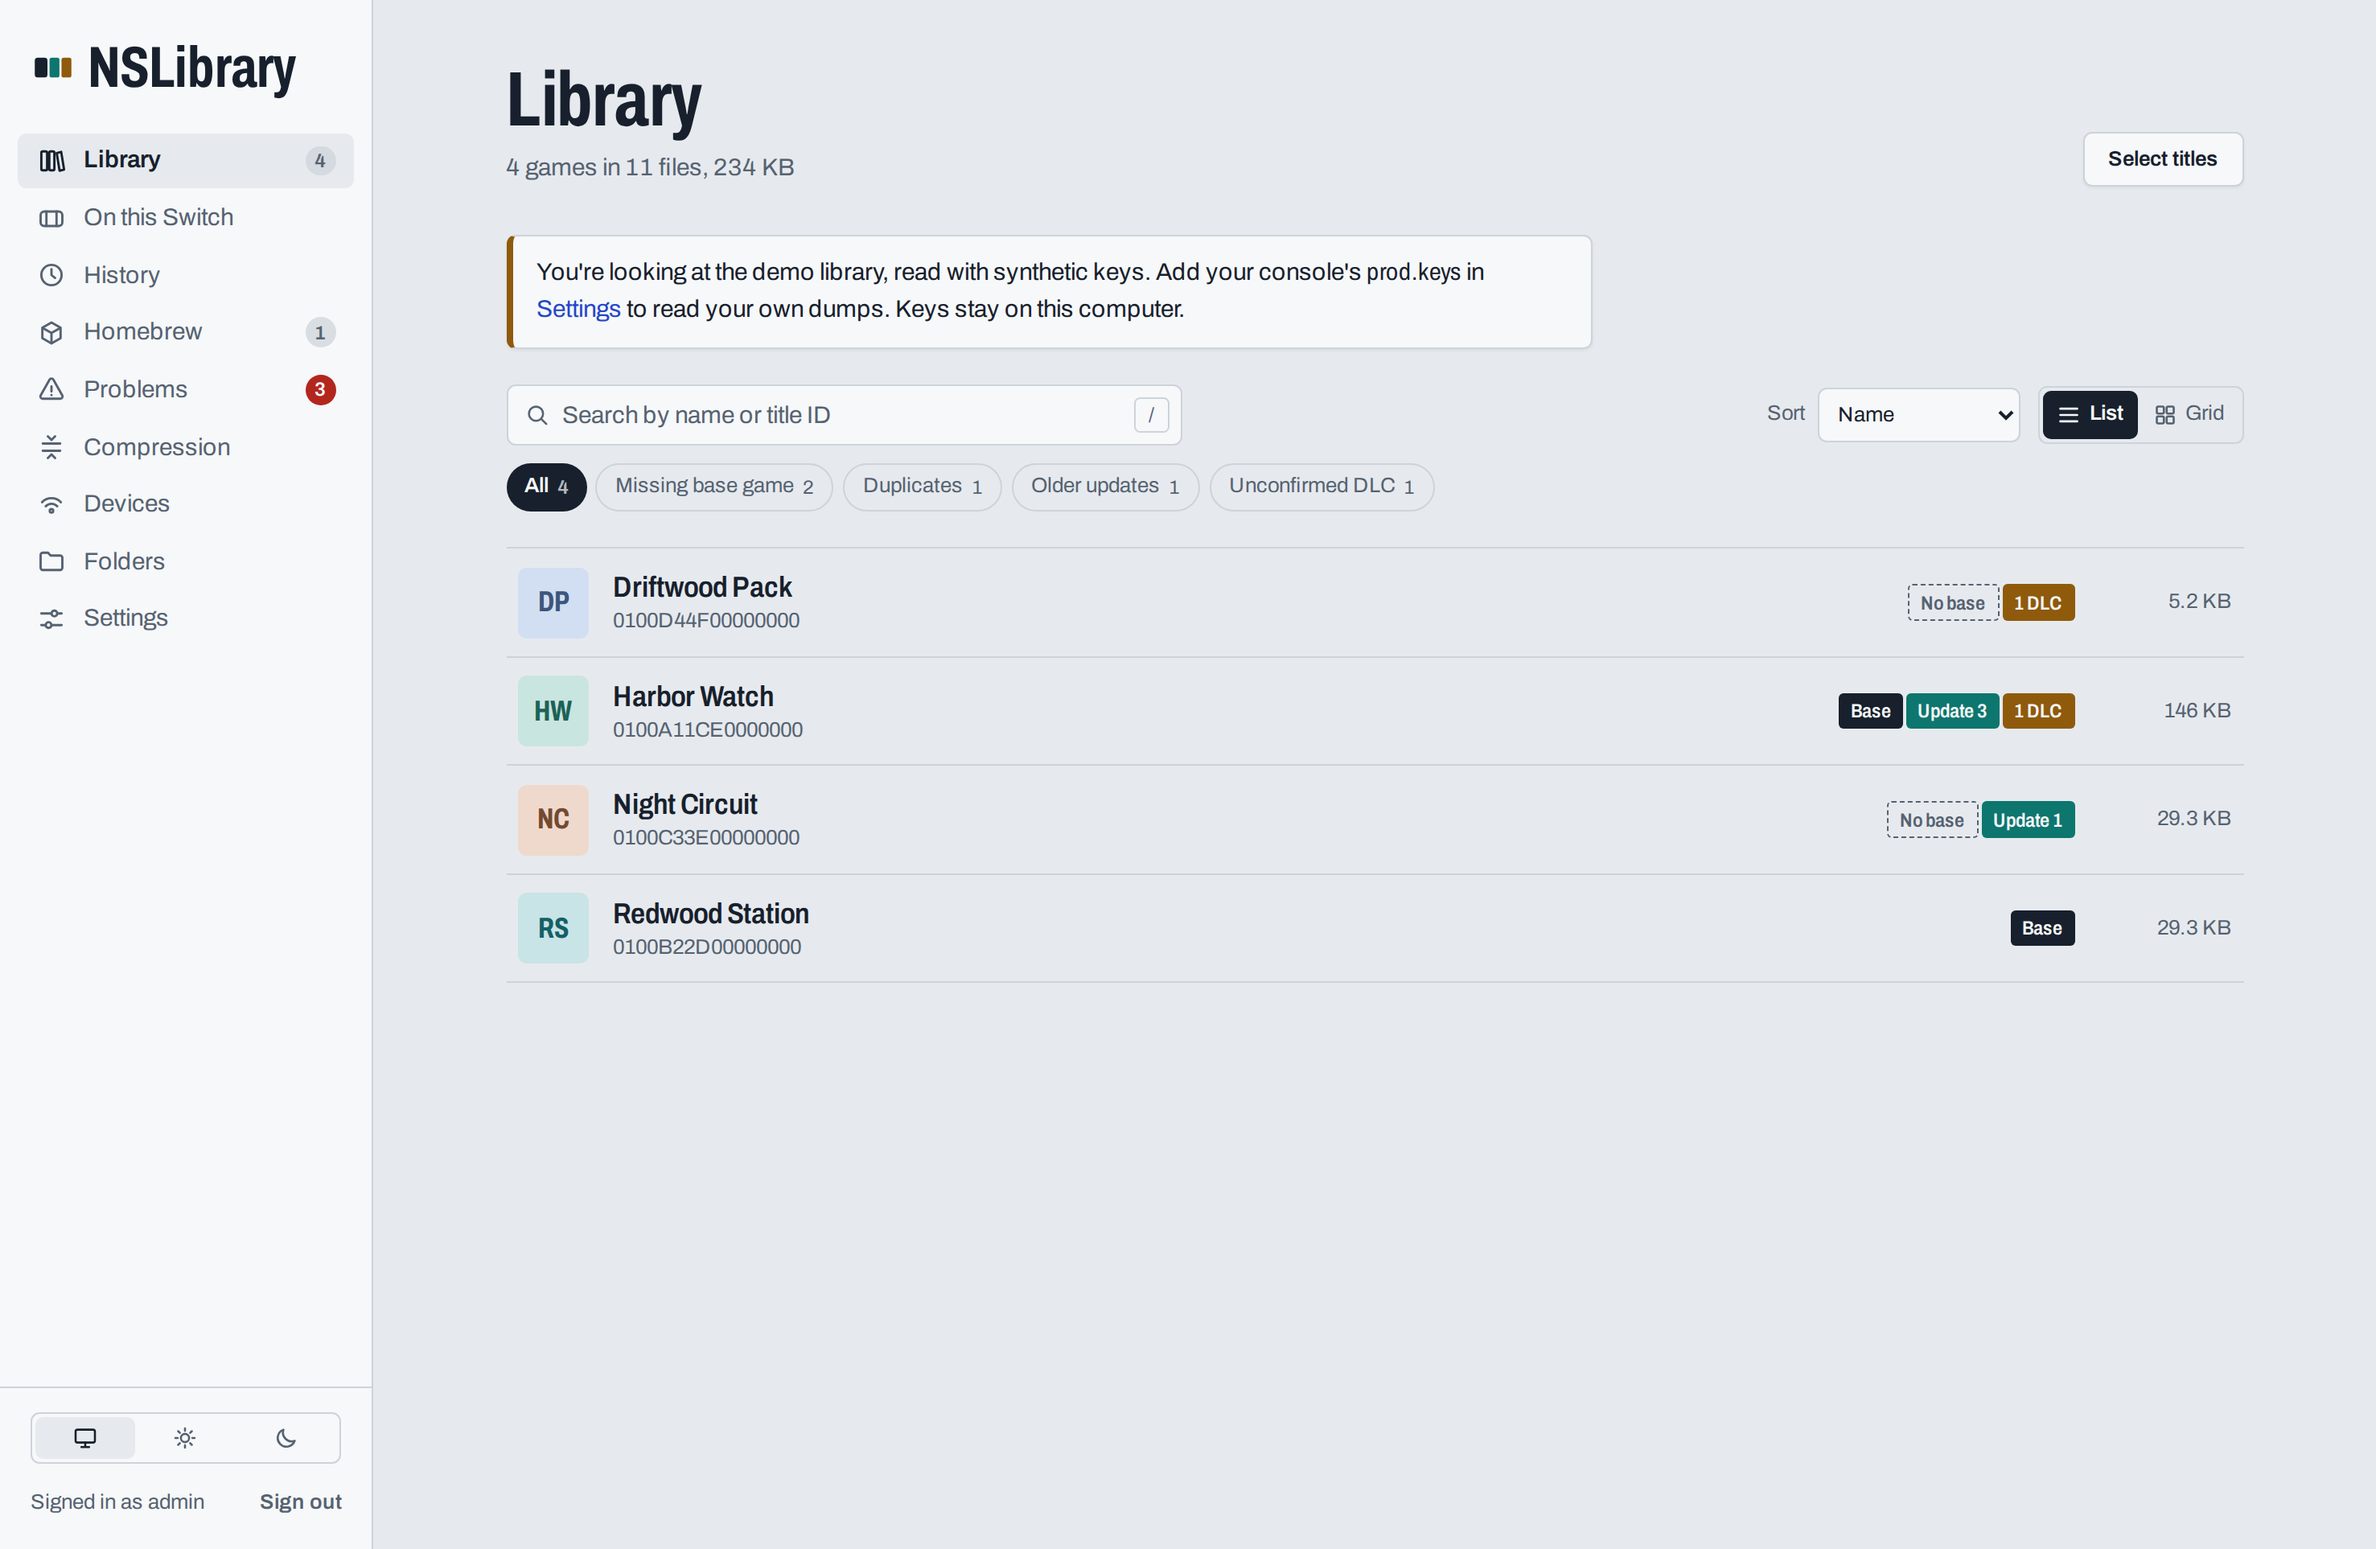
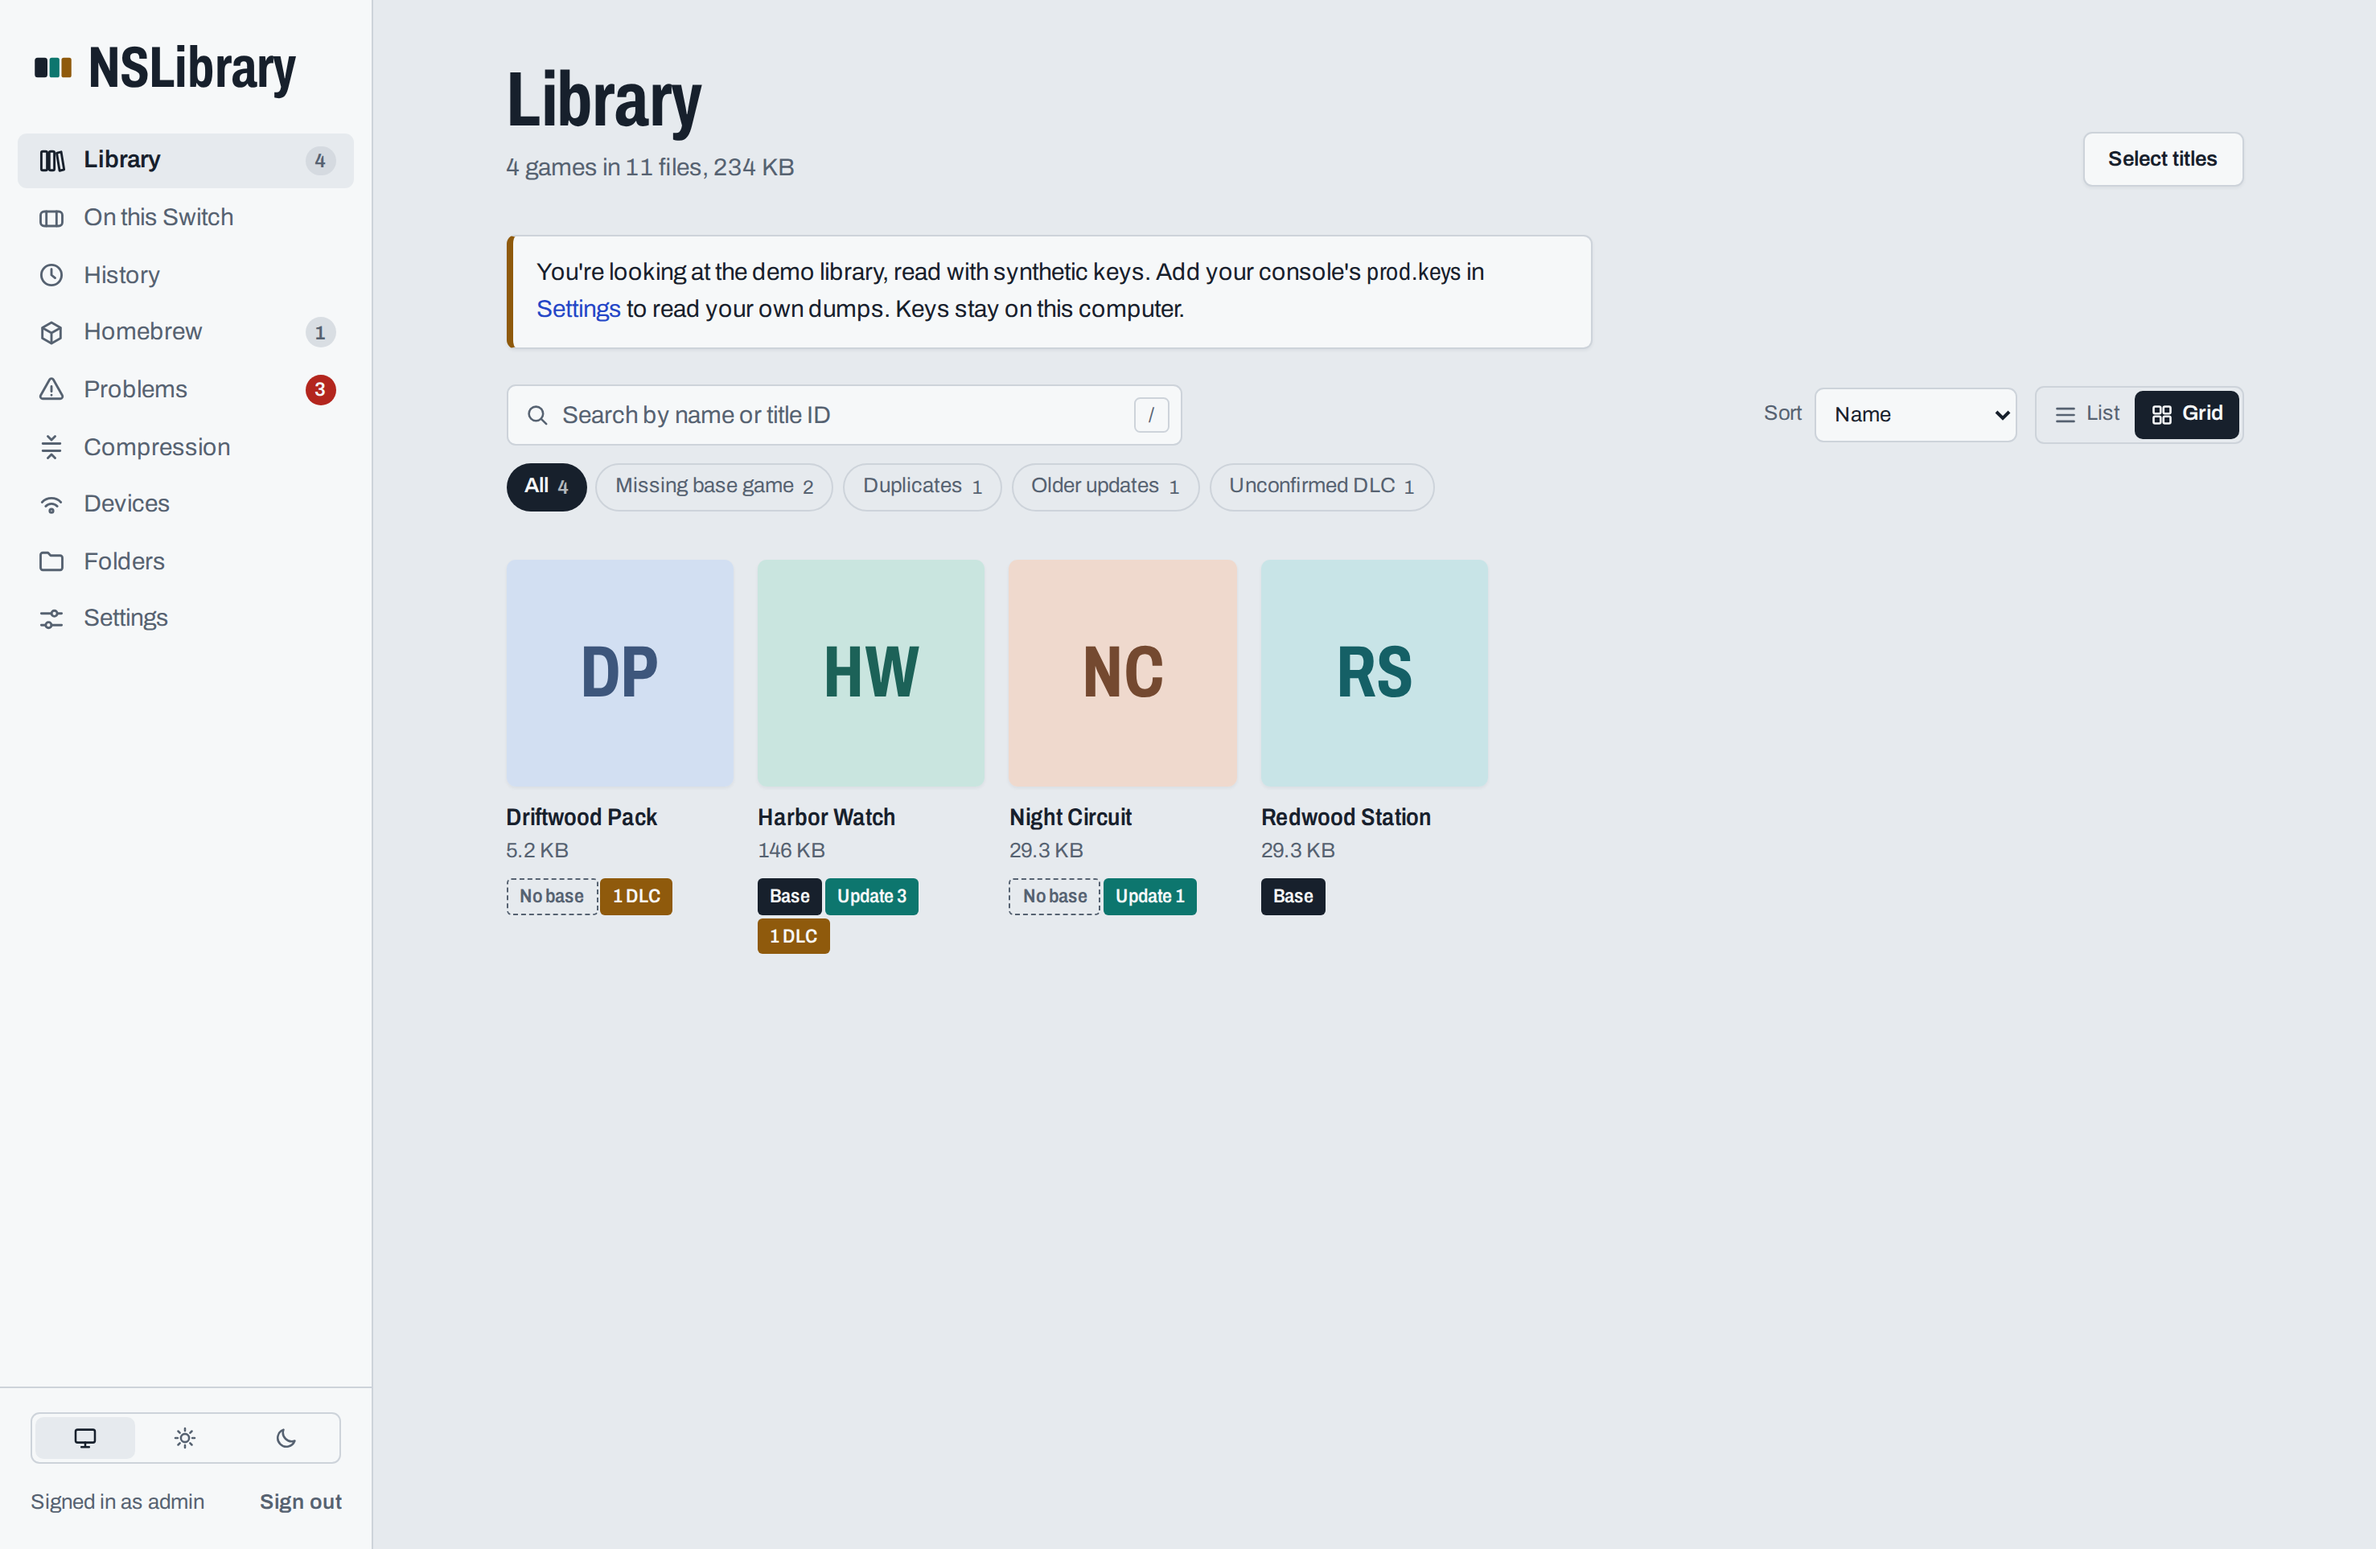
README: show the web library screenshot in grid view
Claude-Session: https://claude.ai/code/session_0133Zx3PqH6pjpBRMch8cGme

diff --git a/README.md b/README.md
@@ -7,7 +7,7 @@ Self-hosted library for **your own** Nintendo Switch dumps. Scan folders of NSP,
 
 There are no download sources, no shop scraping, and no title keys handed out. Keys (`prod.keys`) come from your own console, stay on the server, and are optional.
 
-![The web library, listing four games with their base, update, and DLC badges](docs/img/web-library.png)
+![The web library grid, showing four games as cards with their base, update, and DLC badges](docs/img/web-library.png)
 
 > **This project is for content you dumped yourself, from your own console and your own cartridges.**
 > It will not help you obtain games, keys, or firmware, and requests to add that are out of scope
